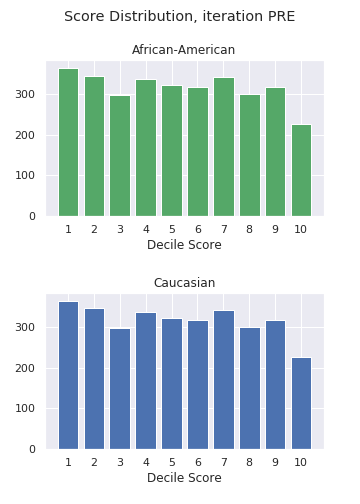
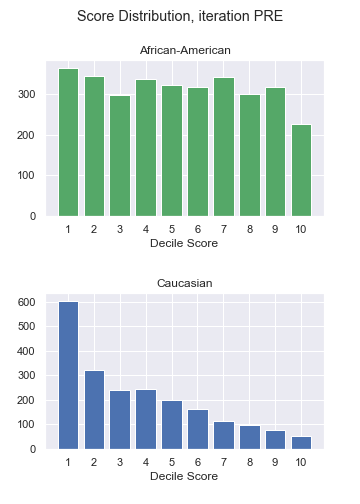
got it working kinda

diff --git a/compas-analysis/markov_neil.py b/compas-analysis/markov_neil.py
@@ -90,21 +90,21 @@ def run_iteration(d):
         delta = 0
         if row['race'] == 'African-American':
             if prob < fpr_aa:
-                delta = 1
-            elif prob < fpr_aa + fnr_aa:
                 delta = -1
+            elif prob < fpr_aa + fnr_aa:
+                delta = 1
         else:
             if prob < fpr_c:
-                delta = 1
-            elif prob < fpr_c + fnr_c:
                 delta = -1
+            elif prob < fpr_c + fnr_c:
+                delta = 1
 
         if delta == -1 and row[1] != 1:
             d.at[i, 'decile_score'] = row[1] - 1
         elif delta == 1 and row[1] != 10:
             d.at[i, 'decile_score'] = row[1] + 1
 
-        reset_score(row)
+        d.at[i, 'score_text'] = reset_score(row)
 
     return d
 
@@ -112,18 +112,18 @@ def run_iteration(d):
 # resets the text score of a given row
 def reset_score(arr):
     if arr[1] < 5:
-        arr[2] = 'Low'
+        return 'Low'
     elif arr[1] < 8:
-        arr[2] = 'Medium'
+        return 'Medium'
     else:
-        arr[2] = 'High'
+        return 'High'
 
 
 def main():
     df = prepare_data()
     FPR_AA, FPR_C = [], []
     FNR_AA, FNR_C = [], [] 
-    NUM_ITER = 5
+    NUM_ITER = 25
 
     # plot distribution without any modifications
     plot_deciles(df, 'PRE')
